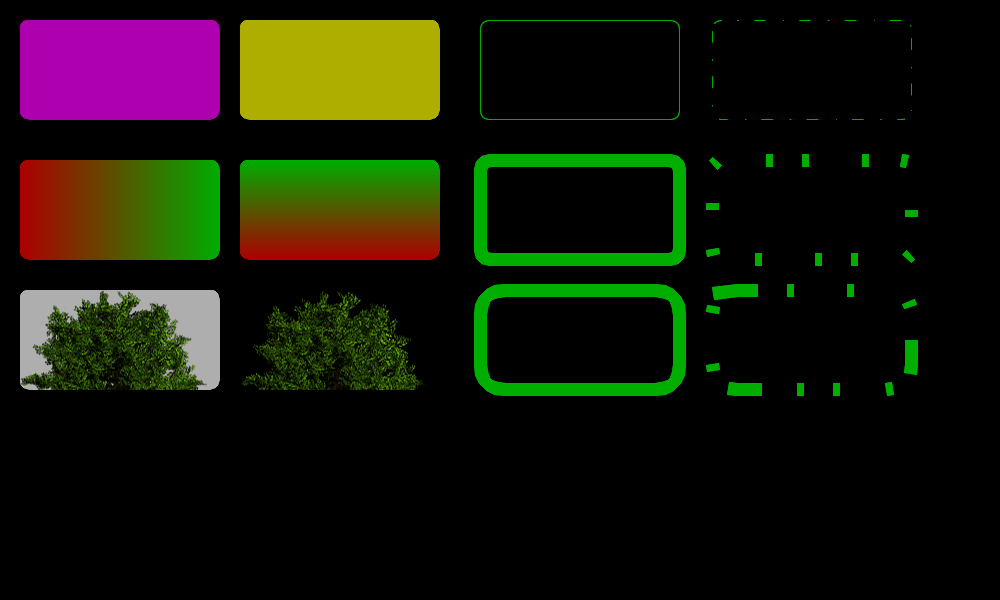
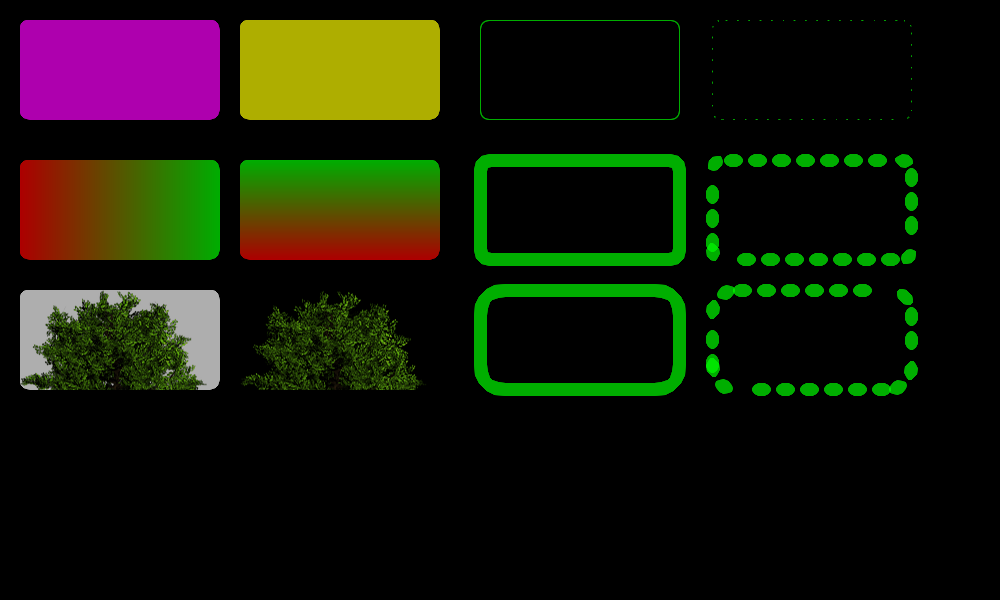
Working on thick polygon

Changed region(s): [[0.682, 0.24, 0.93, 0.51], [0.682, 0.48, 0.93, 0.66]]

diff --git a/src/Pt-Gfx/ImagePainter2.cpp b/src/Pt-Gfx/ImagePainter2.cpp
@@ -924,11 +924,11 @@ void ImagePainter2::drawThickPolyline_impl(const PointF* ps, const size_t pointC
                     for(size_t j = 0; j < curPCnt; ++j) pointsT.push_back(*(basePtr + j));
                     pointsT.push_back(*basePtr);
                     // ### TODO: segmentIndexMarker ###
-                    if(!thickenPatternedPolygon(pointsF, pointsT.data(), pointsT.size())) return;
+                    thickenPatternedPolygon(pointsF, pointsT.data(), pointsT.size());
                 }
                 else {
                     // ### TODO: segmentIndexMarker ###
-                    if(!thickenPatternedPolygon(pointsF, basePtr, curPCnt)) return;
+                    thickenPatternedPolygon(pointsF, basePtr, curPCnt);
                 }
             }
             // Convert the points
@@ -1443,136 +1443,8 @@ struct ImagePainter2::SAGOpState {
     {}
 };
 
-bool ImagePainter2::thickenPatternedPolygon(std::vector<PointF>& pointsF, const PointF* src, size_t pointCount)
+void ImagePainter2::thickenPatternedPolygon(std::vector<PointF>& pointsF, const PointF* src, size_t pointCount)
 {
-    /*
-    // ### TODO: Discard the last generated polygon if it intersects the previous one !!! ###
-    // ### TODO: Discard the last generated polygon if it intersects the first    one !!! ###
-
-    // Calculate the cell size
-    const float cellSize = _rasterizer->pen().size() * 0.5f; // 12 / 2 = 6
-
-    // 0000000000111111111122222222223333333333444444444455555555556666
-    // 0123456789012345678901234567890123456789012345678901234567890123
-    // 1000000010000000100000001000000010000000100000001000000010000000
-    // 1       : 12
-    // 0000000 : 48
-
-    // The pattern buffer and its indexing counter
-    const Pt::uint8_t* pBuff      = _rasterizer->patternBufferMP64();
-          Pt::int32_t  piCtrInOut = 0;
-
-    // Gathered points
-    std::vector<PointF> gatherP;
-    float               gatherL = 0.0f;
-
-    // Walk through the points
-    for(size_t i = 0; i < pointCount; ++i) {
-        // Get the points
-        const PointF& p1 = *(src + i + 0);
-        const PointF& p2 = *(src + i + 1);
-        // Get the coordinates
-        const float px1 = p1.x();
-        const float py1 = p1.y();
-        const float px2 = p2.x();
-        const float py2 = p2.y();
-        // Calculate the length of the current "polygon-edge" segment
-        const float pdx = px2 - px1;
-        const float pdy = py2 - py1;
-        const float pln = Gfx::Math::fastSqrt(pdx * pdx + pdy * pdy);
-        // Calculate length of the current "pattern" segment
-              Pt::int32_t piCtrTest = piCtrInOut;
-        const Pt::uint8_t refPat    = pBuff[piCtrTest];
-              float       patSegLen = cellSize;
-        lprintf("Check A  : [%2zd] gather = %5.1f ; pattern = %5.1f ; piCtrTest = %2d ; refPat = %d\n", gatherP.size(), gatherL, patSegLen, piCtrTest, refPat);
-        for(;;) {
-            // Update the "testing" pattern indexing counter
-            ++piCtrTest;
-            if(piCtrTest >= PATTERN_BUFFER_COUNTER_MAXMP) piCtrTest -= PATTERN_BUFFER_COUNTER_MAXMP;
-            // Get and compare the pattern bit
-            const Pt::uint8_t curPat = pBuff[piCtrTest];
-            if(curPat == refPat) {
-                patSegLen += cellSize;
-                continue;
-            }
-            // We have got a different pattern bit, exit to process the "pattern" segment
-            break;
-        }
-        // If the length of the "gathered" segments has become enough, process it
-        lprintf("Check B  : [%2zd] gather = %5.1f ; pattern = %5.1f ; piCtrTest = %2d ; refPat = %d\n", gatherP.size(), gatherL, patSegLen, piCtrTest, refPat);
-        //if(gatherL >= patSegLen && gatherP.size() >= 2) {
-        if(i == pointCount - 1 && gatherP.empty()) {
-            break;
-        }
-        if(gatherP.size() >= 2 && (gatherL >= patSegLen || i == pointCount - 1)) {
-            // Calculate the excess length
-            const float excessLen = gatherL - patSegLen;
-            // Adjust the gathered points as needed
-            PointF gatherLast;
-            lprintf("Proc GRes: count = %2zd ; gather = %5.1f ; pattern = %5.1f ; delta = %5.1f ; piCtr = %2d ; refPat = %d\n", gatherP.size(), gatherL, patSegLen, gatherL - patSegLen, piCtrInOut, refPat);
-            if(excessLen > 0.0f) {
-                // Get the coordinates
-                const float x1 = gatherP[gatherP.size() - 2].x();
-                const float y1 = gatherP[gatherP.size() - 2].y();
-                const float x2 = gatherP[gatherP.size() - 1].x();
-                const float y2 = gatherP[gatherP.size() - 1].y();
-                // Calculate the vectors
-                const float vx = x2 - x1;
-                const float vy = y2 - y1;
-                const float vl = Gfx::Math::fastSqrt(vx * vx + vy * vy);
-                if(vl < 1) exit(0);
-                const float dx = patSegLen * vx / vl;
-                const float dy = patSegLen * vy / vl;
-                // Adjust the coordinate of the last "gathered" point
-                gatherP.back().set(x1 + dx, y1 + dy);
-                gatherLast = gatherP.back();
-                // Adjust the "gathered" length
-                gatherL = patSegLen;
-            }
-            // Generate a thick polygon
-            if(refPat) thickenSolidOpenPolygon(pointsF, gatherP.data(), gatherP.size(), 0);
-            if(refPat) lprintf("Draw Poly: count = %2zd ; gather = %5.1f ; pattern = %5.1f ; delta = %5.1f\n", gatherP.size(), gatherL, patSegLen, gatherL - patSegLen);
-            else       lprintf("Skip Poly: count = %2zd ; gather = %5.1f ; pattern = %5.1f ; delta = %5.1f\n", gatherP.size(), gatherL, patSegLen, gatherL - patSegLen);
-            // Adjust the gathered points
-            if(excessLen > 0.0f) {
-                gatherP.clear();
-                gatherP.push_back(gatherLast);
-                gatherL = excessLen;
-                lprintf("Re-gather: %5.1f, %5.1f [%2zd] : glen = %5.1f (expecting %5.1f) ; piCtr = %2d ; refPat = %d\n", gatherP.back().x(), gatherP.back().y(), gatherP.size(), gatherL, patSegLen, piCtrInOut, refPat);
-            }
-            // Clear the gathered points
-            else {
-                gatherP.clear();
-                gatherL = 0.0f;
-            }
-            // Copy value from the "testing" pattern indexing counter to the real pattern indexing counter
-            piCtrInOut = piCtrTest;// + 1;
-            //if(piCtrInOut >= PATTERN_BUFFER_COUNTER_MAXMP) piCtrInOut -= PATTERN_BUFFER_COUNTER_MAXMP;
-
-            //if(excessLen > 0.0f) piCtrInOut -= round(excessLen);
-            //if(piCtrInOut < 0) piCtrInOut += PATTERN_BUFFER_COUNTER_MAXMP;
-            lprintf("Done GRes: piCtr = %d\n", piCtrInOut);
-        }
-        // If the "polygon-edge" segment is shorther than "pattern" segment or if there is an
-        // active "gather" process, gather the current point
-        else if(pln < patSegLen || !gatherP.empty()) {
-            gatherP.push_back(p1);
-            gatherL += pln;
-            lprintf("In-gather: %5.1f, %5.1f [%2zd] : glen = %5.1f (expecting %5.1f) ; piCtr = %2d ; refPat = %d\n", gatherP.back().x(), gatherP.back().y(), gatherP.size(), gatherL, patSegLen, piCtrInOut, refPat);
-        }
-        // Generate a simple patterned line segment
-        else {
-            lprintf("Proc Line: (%5.1f, %5.1f) - (%5.1f, %5.1f) ; piCtr = %2d ; refPat = %d\n", px1, py1, px2, py2, piCtrInOut, refPat);
-            generatePatternedLineSegment(pointsF, px1, py1, px2, py2, piCtrInOut);
-            lprintf("Draw Line: (%5.1f, %5.1f) - (%5.1f, %5.1f) ; piCtr = %2d ; refPat = %d\n", px1, py1, px2, py2, piCtrInOut, refPat);
-        }
-    }
-
-    // Done
-    lprintf("\n");
-    return true;
-    */
-
     // Calculate the cell size
     const float cellSize = _rasterizer->pen().size() * 0.25f;
 
@@ -1593,7 +1465,7 @@ bool ImagePainter2::thickenPatternedPolygon(std::vector<PointF>& pointsF, const 
     bool done = false;
     while(!done) {
         // Calculate the "pattern" segment length
-    const Pt::int32_t oldPi = piCtrInOut;
+        //const Pt::int32_t oldPi = piCtrInOut;
         const Pt::uint8_t refPat = pBuff[piCtrInOut];
         state.patSegLen = 0.0f;
         for(;;) {
@@ -1610,12 +1482,11 @@ bool ImagePainter2::thickenPatternedPolygon(std::vector<PointF>& pointsF, const 
             break;
         }
         // Process the "pattern" segment
-        lprintf("### Processing a pattern segment with size %5.1f (from PI %2d to %2d):\n", state.patSegLen, oldPi, piCtrInOut - 1);
+        //lprintf("### Processing a pattern segment with size %5.1f (from PI %2d to %2d):\n", state.patSegLen, oldPi, piCtrInOut - 1);
         done = sagPolygonPoints(state, !!refPat);
     }
 
-    // Done
-    return true;
+    // ### TODO: Handle intersecting polygons !!! ###
 }
 
 bool ImagePainter2::sagPolygonPoints(SAGOpState& state, bool draw)
@@ -1629,7 +1500,7 @@ bool ImagePainter2::sagPolygonPoints(SAGOpState& state, bool draw)
         if(state.remLen <= 0.0f) {
             // Check if all polygon's points have been processed
             if(state.idx1 + 1 >= state.srcCount) {
-                lprintf("### All points are processed!\n");
+                //lprintf("### All points are processed!\n");
                 state.gather.clear();
                 state.gatherLen = 0.0f;
                 return true;
@@ -1653,8 +1524,8 @@ bool ImagePainter2::sagPolygonPoints(SAGOpState& state, bool draw)
             state.cvy    = vy / round(vz / state.cellSize) * 4;
             state.cvl    = Gfx::Math::fastSqrt(state.cvx * state.cvx + state.cvy * state.cvy);
             state.remLen = vz;
-            lprintf("    Initialize: px = %5.1f ; py = %5.1f ; ex = %5.1f ; ey = %5.1f ; cvx = %5.1f; cvy = %5.1f; cvl = %5.1f; remLen = %5.1f ; patSegLen = %5.1f ; from index [%2zd, %2zd]\n",
-                    state.px, state.py, state.ex, state.ey, state.cvx, state.cvy, state.cvl, state.remLen, state.patSegLen, state.idx1, state.idx1 + 1);
+            //lprintf("    Initialize: px = %5.1f ; py = %5.1f ; ex = %5.1f ; ey = %5.1f ; cvx = %5.1f; cvy = %5.1f; cvl = %5.1f; remLen = %5.1f ; patSegLen = %5.1f ; from index [%2zd, %2zd]\n",
+            //        state.px, state.py, state.ex, state.ey, state.cvx, state.cvy, state.cvl, state.remLen, state.patSegLen, state.idx1, state.idx1 + 1);
         }
         // If we have enough length from the gathered points, process them
         if(state.gatherLen >= state.patSegLen) {
@@ -1664,23 +1535,13 @@ bool ImagePainter2::sagPolygonPoints(SAGOpState& state, bool draw)
                 if(!state.dstPoints.empty()) state.dstPoints.push_back(Painter::PolygonSeparatorPointF);
                 // Generate the polygon
                 thickenSolidOpenPolygon(state.dstPoints, state.gather.data(), state.gather.size(), 0);
-                lprintf("    Poly Draw : patSegLen = %5.1f ; remLen = %5.1f ; point count = %zd\n", state.patSegLen, state.remLen, state.gather.size());
+                //lprintf("    Poly Draw : patSegLen = %5.1f ; remLen = %5.1f ; point count = %zd\n", state.patSegLen, state.remLen, state.gather.size());
             }
-            else {
-                lprintf("    Poly Skip : patSegLen = %5.1f ; remLen = %5.1f ; point count = %zd\n", state.patSegLen, state.remLen, state.gather.size());
-            }
-            // Process excess length (if any)
-          //  state.remLen    = state.remLen - state.gatherLen;
+            //else {
+            //    lprintf("    Poly Skip : patSegLen = %5.1f ; remLen = %5.1f ; point count = %zd\n", state.patSegLen, state.remLen, state.gather.size());
+            //}
+            // Reset the "pattern" segment length
             state.patSegLen = 0.0f;
-           // if(state.remLen > 0.0f) {
-           //     state.px = state.ex - state.uvx * state.remLen;
-            //    state.py = state.ey - state.uvy * state.remLen;
-             //   lprintf("    Excess    : px = %5.1f ; py = %5.1f ; remLen = %5.1f\n", state.px, state.py, state.remLen);
-           // }
-           // else {
-           //     state.remLen = -1.0f;
-            //    lprintf("    Consumed  : remLen = %5.1f\n", state.remLen);
-           // }
             // Reset the gather buffer
             state.gather.clear();
             state.gatherLen = 0.0f;
@@ -1691,53 +1552,57 @@ bool ImagePainter2::sagPolygonPoints(SAGOpState& state, bool draw)
             // Generate a simple line segment as needed
             if(draw) {
                 sagGenerateSimpleLineSegment(state, state.px, state.py, state.px + state.cvx * 0.5f, state.py + state.cvy * 0.5f);
-                lprintf("    Line Draw : patSegLen = %5.1f ; remLen = %5.1f ; line (%5.1f, %5.1f) - (%5.1f, %5.1f)\n", state.patSegLen, state.remLen, state.px, state.py, state.px + state.cvx, state.py + state.cvy);
+                //lprintf("    Line Draw : patSegLen = %5.1f ; remLen = %5.1f ; line (%5.1f, %5.1f) - (%5.1f, %5.1f)\n", state.patSegLen, state.remLen, state.px, state.py, state.px + state.cvx, state.py + state.cvy);
             }
-            else {
-                lprintf("    Line Skip : patSegLen = %5.1f ; remLen = %5.1f ; line (%5.1f, %5.1f) - (%5.1f, %5.1f)\n", state.patSegLen, state.remLen, state.px, state.py, state.px + state.cvx, state.py + state.cvy);
-            }
+            //else {
+            //    lprintf("    Line Skip : patSegLen = %5.1f ; remLen = %5.1f ; line (%5.1f, %5.1f) - (%5.1f, %5.1f)\n", state.patSegLen, state.remLen, state.px, state.py, state.px + state.cvx, state.py + state.cvy);
+            //}
             // Process excess length (if any)
             state.remLen    = state.remLen - state.patSegLen;
             state.patSegLen = 0.0f;
             if(state.remLen > 0.0f) {
+                // Update the interpolation coordinate
                 state.px = state.ex - state.uvx * state.remLen;
                 state.py = state.ey - state.uvy * state.remLen;
-                lprintf("    Excess    : px = %5.1f ; py = %5.1f ; remLen = %5.1f\n", state.px, state.py, state.remLen);
+                //lprintf("    Excess    : px = %5.1f ; py = %5.1f ; remLen = %5.1f\n", state.px, state.py, state.remLen);
             }
             else {
+                // Reset the remainder length
                 state.remLen = -1.0f;
-                lprintf("    Consumed  : remLen = %5.1f\n", state.remLen);
+                //lprintf("    Consumed  : remLen = %5.1f\n", state.remLen);
             }
             continue;
         }
         // If we got herem it means:
         //     1. The remainder length is not enough
         //     2. The "gather"  length is not enough
+
         // Store the current interpolation coordinate to the "gather" buffer as needed
         if(state.gather.empty() || state.gather.back().x() != state.px || state.gather.back().y() != state.py) {
             state.gather.push_back(PointF(state.px, state.py));
-            lprintf("    Gather P  : patSegLen = %5.1f ; remLen = %5.1f ; gatherLen = %5.1f ; segment (%5.1f, %5.1f) - (%5.1f, %5.1f) from index [%2zd, %2zd]; new gather.size() = %zd\n", state.patSegLen, state.remLen, state.gatherLen, state.px, state.py, state.ex, state.ey, state.idx1, state.idx1 + 1, state.gather.size());
+            //lprintf("    Gather P  : patSegLen = %5.1f ; remLen = %5.1f ; gatherLen = %5.1f ; segment (%5.1f, %5.1f) - (%5.1f, %5.1f) from index [%2zd, %2zd]; new gather.size() = %zd\n", state.patSegLen, state.remLen, state.gatherLen, state.px, state.py, state.ex, state.ey, state.idx1, state.idx1 + 1, state.gather.size());
         }
-        // Store the next coordinate
+        // If the total length will be in range, store the end coordinate
         if(state.gatherLen + state.remLen <= state.patSegLen) {
-            //
+            // Store the end coordinate
             state.gather.push_back(PointF(state.ex, state.ey));
             state.gatherLen += state.remLen;
-            lprintf("    Gather E  : patSegLen = %5.1f ; remLen = %5.1f ; gatherLen = %5.1f ; segment (%5.1f, %5.1f) - (%5.1f, %5.1f) from index [%2zd, %2zd]; new gather.size() = %zd\n", state.patSegLen, state.remLen, state.gatherLen, state.px, state.py, state.ex, state.ey, state.idx1, state.idx1 + 1, state.gather.size());
+            //lprintf("    Gather E  : patSegLen = %5.1f ; remLen = %5.1f ; gatherLen = %5.1f ; segment (%5.1f, %5.1f) - (%5.1f, %5.1f) from index [%2zd, %2zd]; new gather.size() = %zd\n", state.patSegLen, state.remLen, state.gatherLen, state.px, state.py, state.ex, state.ey, state.idx1, state.idx1 + 1, state.gather.size());
             // Increment the point index and reset the remainder length
             ++state.idx1;
             state.remLen = -1.0f;
         }
-        // Store the in-between coordinate
+        // Otherwise, store the in-between coordinate
         else {
+            // Update the interpolation coordinate
             state.px += state.uvx * state.patSegLen;
             state.py += state.uvy * state.patSegLen;
+            // Store the in-between coordinate
             state.gather.push_back(PointF(state.px, state.py));
             state.gatherLen = state.patSegLen;
-
+            // Substract the remainder length
             state.remLen -= state.patSegLen;
-
-            lprintf("    Gather I  : patSegLen = %5.1f ; remLen = %5.1f ; gatherLen = %5.1f ; segment (%5.1f, %5.1f) - (%5.1f, %5.1f) from index [%2zd, %2zd]; new gather.size() = %zd\n", state.patSegLen, state.remLen, state.gatherLen, state.px, state.py, state.ex, state.ey, state.idx1, state.idx1 + 1, state.gather.size());
+            //lprintf("    Gather I  : patSegLen = %5.1f ; remLen = %5.1f ; gatherLen = %5.1f ; segment (%5.1f, %5.1f) - (%5.1f, %5.1f) from index [%2zd, %2zd]; new gather.size() = %zd\n", state.patSegLen, state.remLen, state.gatherLen, state.px, state.py, state.ex, state.ey, state.idx1, state.idx1 + 1, state.gather.size());
         }
     }
 

diff --git a/src/Pt-Gfx/tests/ImagePainterTest2_Draw_Outline.cpp b/src/Pt-Gfx/tests/ImagePainterTest2_Draw_Outline.cpp
@@ -301,14 +301,14 @@ static void testDrawRoundRect(const char* title, Image& image, Painter& painter)
     ip2->drawRoundRect( RectF(PointF(480, 290), SizeF(200, 100)), 25 );
 
     // Outline - thin - patterned
-    ip2->setPen  ( Pen(Color::fromRgb8(0, 255, 0, 175), 1, Pen::DotDash ) );
+    ip2->setPen  ( Pen(Color::fromRgb8(0, 255, 0, 175), 1, Pen::Dot, Pen::RoundCap, Pen::MiterJoin ) );
     ip2->drawRoundRect( RectF(PointF(712,  20), SizeF(200, 100)), 10 );
 
     // Outline - thick - patterned
-    ip2->setPen  ( Pen(Color::fromRgb8(0, 255, 0, 175), 12, Pen::DotDash ));
+    ip2->setPen  ( Pen(Color::fromRgb8(0, 255, 0, 175), 12, Pen::Dot, Pen::RoundCap, Pen::MiterJoin ));
     ip2->drawRoundRect( RectF(PointF(712, 160), SizeF(200, 100)), 10 );
 
-    ip2->setPen  ( Pen(Color::fromRgb8(0, 255, 0, 175), 12, Pen::DotDash ));
+    ip2->setPen  ( Pen(Color::fromRgb8(0, 255, 0, 175), 12, Pen::Dot, Pen::RoundCap, Pen::MiterJoin ));
     ip2->drawRoundRect( RectF(PointF(712, 290), SizeF(200, 100)), 25 );
 
     sdlPreviewRGB888Buffer(title, image.data(), image.width(), image.height(), !!dynamic_cast<ImagePainter2*>(&painter));

diff --git a/include/Pt/Gfx/ImagePainter2.h b/include/Pt/Gfx/ImagePainter2.h
@@ -149,7 +149,7 @@ class PT_GFX_API ImagePainter2 : public Painter
         bool combineLineSegmentForSolidClosedPolygon(std::vector<PointF>& outer, std::vector<PointF>& inner, const std::vector<PointF>& segment, const PointF& origMeetingPoint, bool isFirst, bool isLast, bool inSameSegment);
 
         void generatePatternedLineSegment(std::vector<PointF>& dst, float x1, float y1, float x2, float y2, Pt::int32_t& piCtrInOut);
-        bool thickenPatternedPolygon(std::vector<PointF>& pointsF, const PointF* src, size_t pointCount);
+        void thickenPatternedPolygon(std::vector<PointF>& pointsF, const PointF* src, size_t pointCount);
         bool sagPolygonPoints(SAGOpState& state, bool draw);
         void sagGenerateSimpleLineSegment(SAGOpState& state, float x1, float y1, float x2, float y2);
 

diff --git a/src/Pt-Gfx/tests/ImagePainterTest2.cpp b/src/Pt-Gfx/tests/ImagePainterTest2.cpp
@@ -72,7 +72,7 @@ using namespace Pt::Gfx;
 
 // Detailed-test enable settings for Pt-Gfx
 #define TEST_SOURCECOPY                         1
-#define TEST_SOURCEOVER                         0
+#define TEST_SOURCEOVER                         1
 
 // ### TODO: Check with Valgrind again after all thick-line implementations are done ###
 
